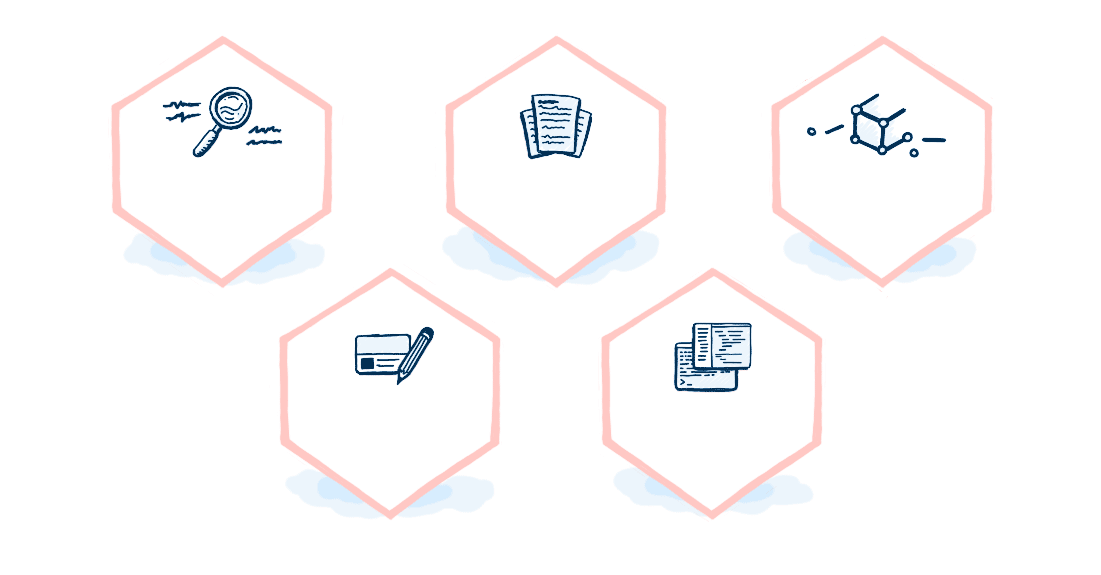
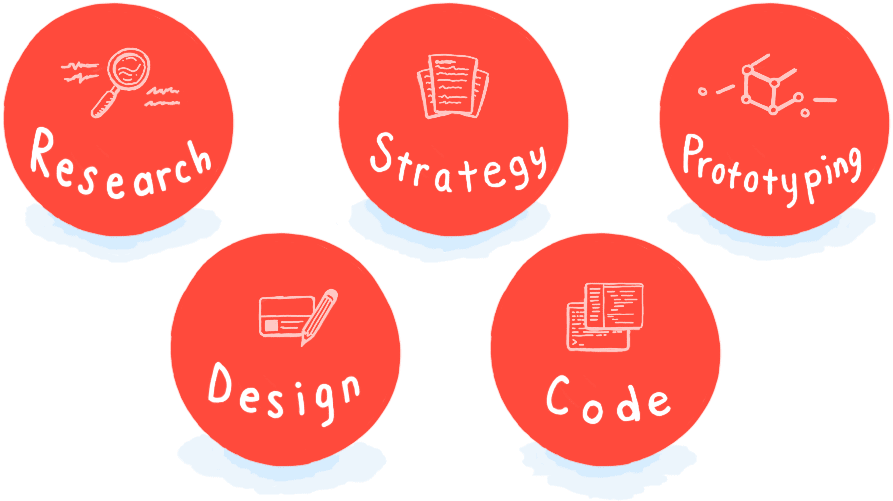
update what I do image

diff --git a/_includes/home/intro.html b/_includes/home/intro.html
@@ -32,27 +32,12 @@
 
 </section>
 
-<section class="max-width-4 mx-auto clearfix section-intro bp4 mb4">
-  <div class="col col-8">
-    <ul class="wid-labels relative m0 p0">
-      <li class="wid-item inline-block center absolute first">
-        Strategy
-      </li>
-      <li class="wid-item inline-block center absolute second">
-        Research
-      </li>
-      <li class="wid-item inline-block center absolute third">
-        Prototyping
-      </li>
-      <li class="wid-item inline-block center absolute fourth">
-        Design
-      </li>
-      <li class="wid-item inline-block center absolute fifth">
-        Code
-      </li>
-    </ul>
+<section class="max-width-4 mx-auto clearfix section-intro pb4 mb4">
+  <div class="col col-5 mr3 pt0">
+    <img alt="Research, strategy, prototyping, design, code" src="/img/what-i-do.png" class="img-full-width block pt2 ml3" />
   </div>
-  <div class="col col-4">
+  <div class="col col-2 pt0"></div>
+  <div class="col col-4 pt0">
     <h2 class="headline mt4 pt2">
       What I do
     </h2>
